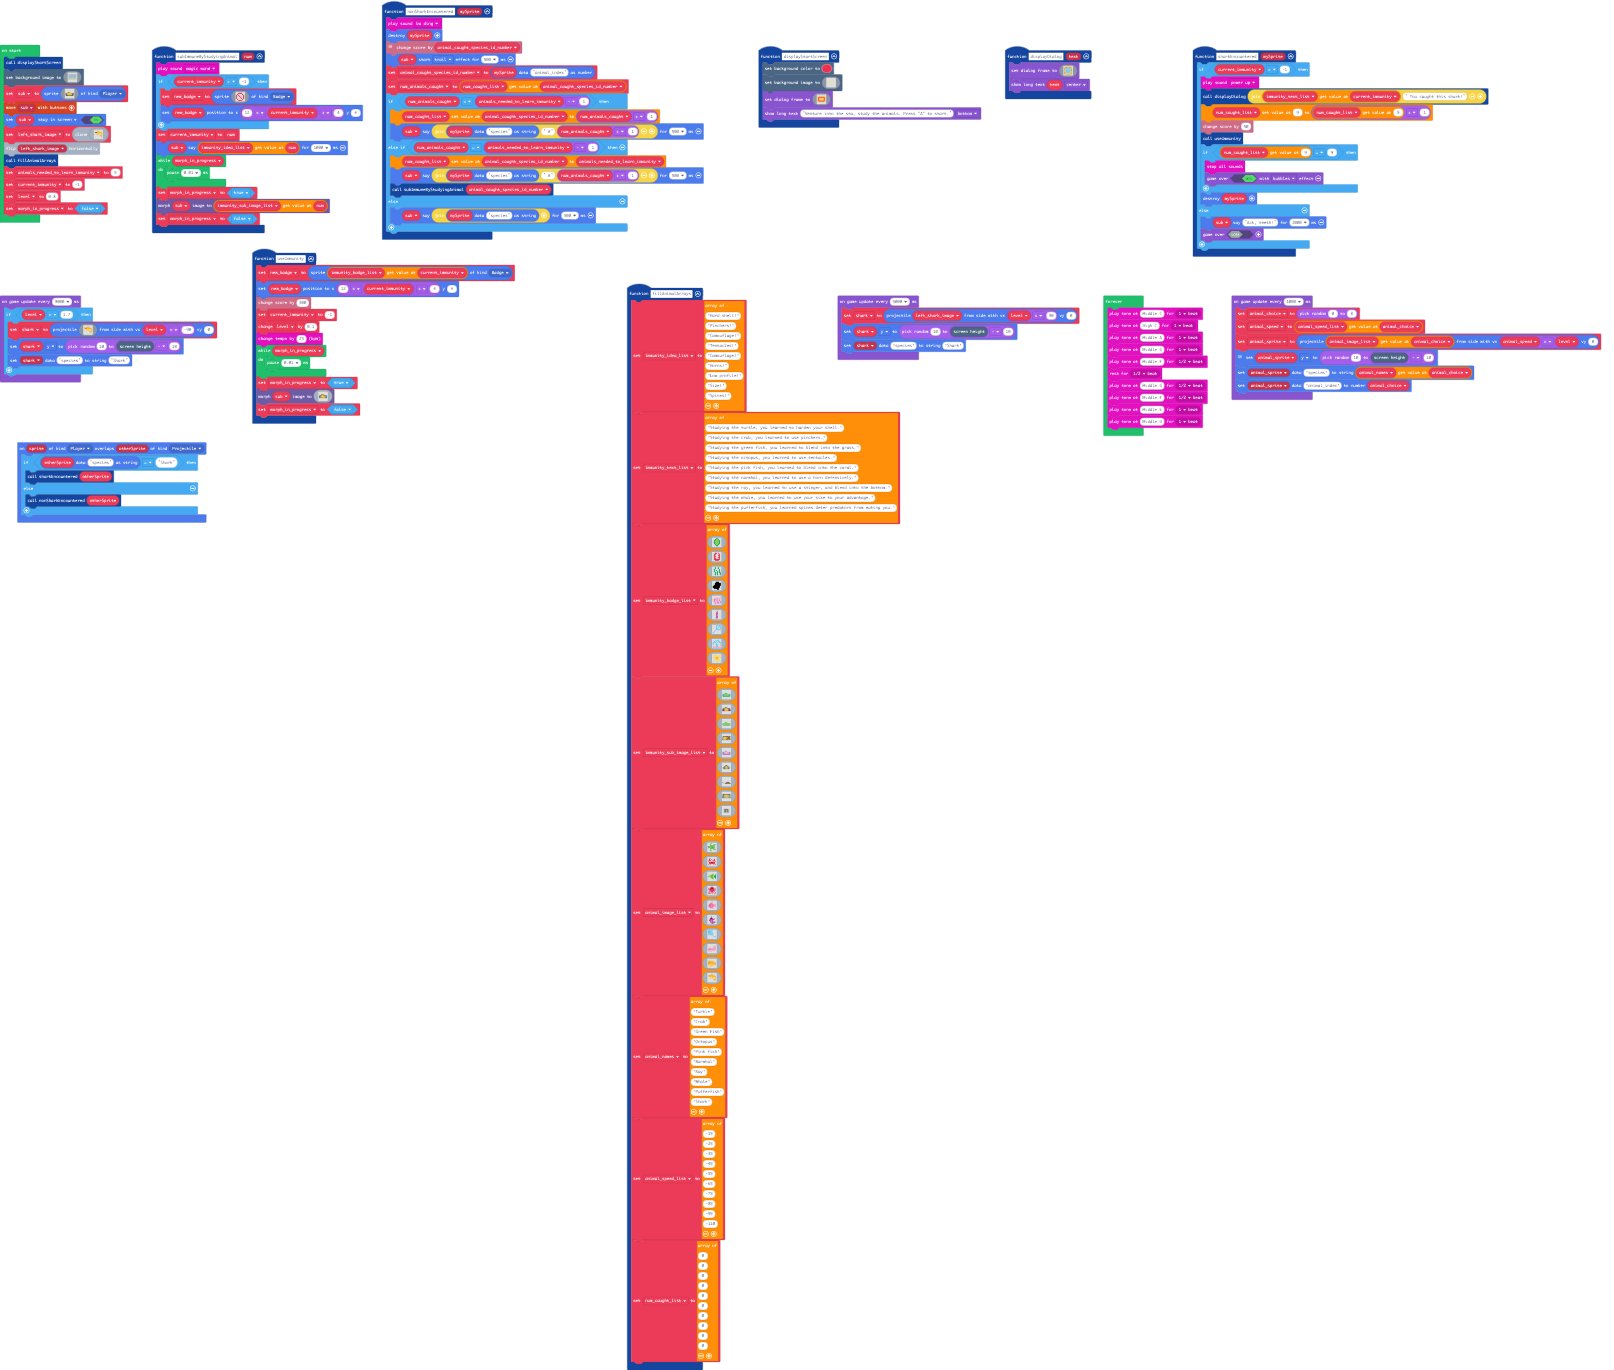
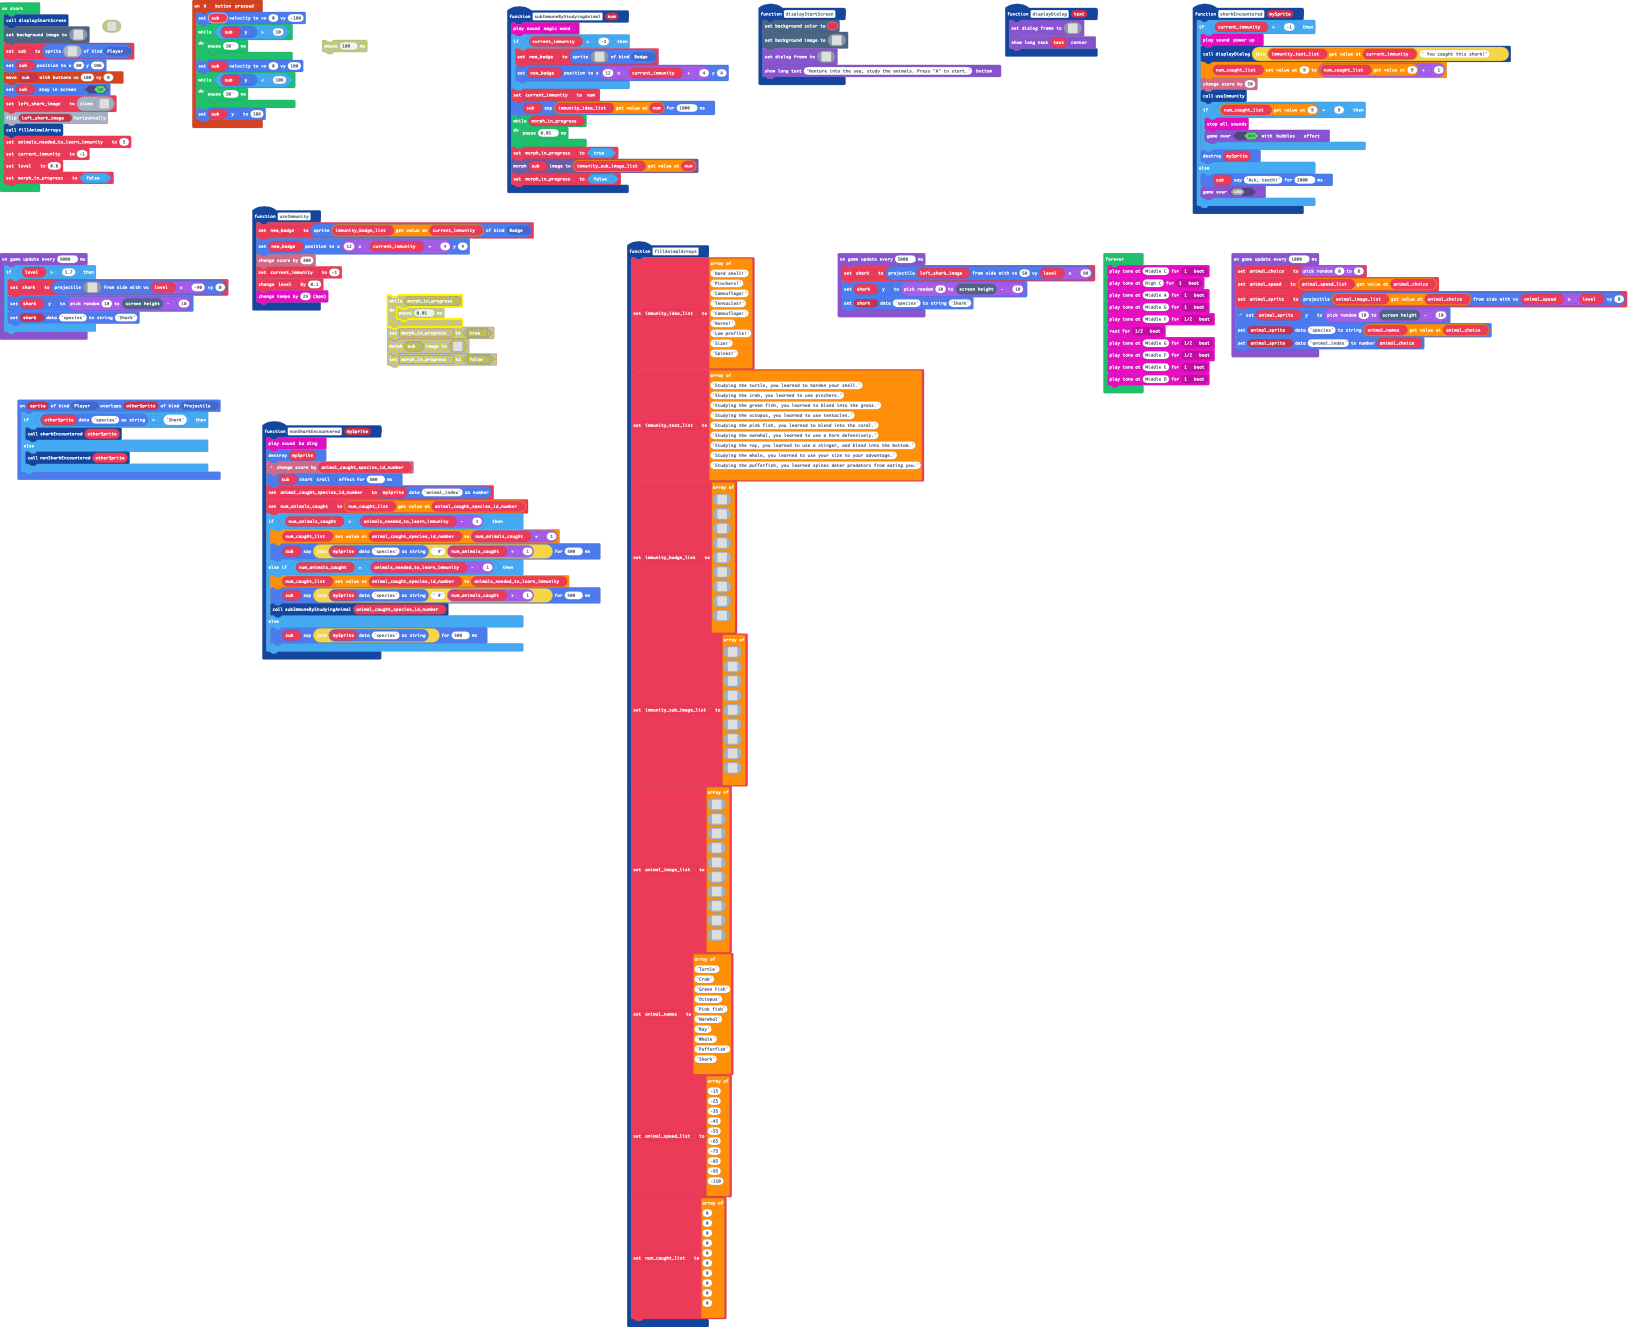
Crab main player, side to side w jumps

Changed region(s): [[0.0, 0.0, 0.9913, 1.0]]

diff --git a/main.ts b/main.ts
@@ -2,6 +2,17 @@ namespace SpriteKind {
     export const Immunity = SpriteKind.create()
     export const Badge = SpriteKind.create()
 }
+controller.A.onEvent(ControllerButtonEvent.Pressed, function () {
+    sub.setVelocity(0, -100)
+    while (sub.y > 10) {
+        pause(10)
+    }
+    sub.setVelocity(0, 100)
+    while (sub.y < 106) {
+        pause(10)
+    }
+    sub.y = 106
+})
 function useImmunity () {
     new_badge = sprites.create(immunity_badge_list[current_immunity], SpriteKind.Badge)
     new_badge.setPosition(12 * current_immunity + 4, 4)
@@ -9,29 +20,6 @@ function useImmunity () {
     current_immunity = -1
     level += 0.1
     music.changeTempoBy(25)
-    while (morph_in_progress) {
-        pause(0.01)
-    }
-    morph_in_progress = true
-    imagemorph.morph(sub, img`
-        . . . . . . . . . . . f f f f f f . . . . . . . . . . . . . . . 
-        . . . . . . . . . . f d e d e e e f . . . . . . . . . . . . . . 
-        . . . . . . . . . . f d d e e e e f . . . . . . . . . . . . . . 
-        . . . . . . . . . . f d e d e e e f . . . . . . . . . . . . . . 
-        . . . . . . . . . . f d d e e e e f . . . . . . . . . . . . . . 
-        . . f f f f f f f f d d e d e e e e f f f f f f f f f f f f . . 
-        . f f c f d e d e e e e e e e e e e e e e e e e d e d f c f f . 
-        f f c b f e d e e d d e e e e e e e e e e d d e e d e f b c f f 
-        f c b b f d e e d c b d e e e e e e e e d c b d e e d f b b c f 
-        f b b b f e e d c b b b d e e e e e e d c b b b d e e f b b b f 
-        f f f f f e e d b b b b d e e e e e e d b b b b d e e f f f f f 
-        f b b b f e e e d b b d e e e e e e e e d b b d e e e f b b b f 
-        f b b b f e d e d d d e d e d e d e d e d d d e d e d f b b b f 
-        f f b b f d e d e d e d e d e d e d e d e d e d e d e f b b f f 
-        . f f b f d d d d d d d d d d d d d d d d d d d d d d f b f f . 
-        . . f f f f f f f f f f f f f f f f f f f f f f f f f f f f . . 
-        `)
-    morph_in_progress = false
 }
 function displayDialog (text: string) {
     game.setDialogFrame(img`
@@ -913,24 +901,25 @@ scene.setBackgroundImage(img`
     7 7 7 7 7 7 7 7 7 7 7 7 7 7 7 7 7 7 7 7 7 7 7 7 7 7 7 7 7 7 7 7 7 7 7 7 7 7 7 7 7 7 7 7 7 7 7 7 7 7 7 7 7 7 7 7 7 7 7 7 7 7 7 7 7 7 7 7 7 7 7 7 7 7 7 7 7 7 7 7 7 7 7 7 7 7 7 7 7 7 7 7 7 7 7 7 7 7 d d d d d d d d d d d d d d d d d d d d d d d d d d d d d d d d d d d d d d d d d d d d d d d d d d d d d d 7 7 7 7 7 7 7 7 
     `)
 sub = sprites.create(img`
-    . . . . . . . . . . . f f f f f f . . . . . . . . . . . . . . . 
-    . . . . . . . . . . f d e d e e e f . . . . . . . . . . . . . . 
-    . . . . . . . . . . f d d e e e e f . . . . . . . . . . . . . . 
-    . . . . . . . . . . f d e d e e e f . . . . . . . . . . . . . . 
-    . . . . . . . . . . f d d e e e e f . . . . . . . . . . . . . . 
-    . . f f f f f f f f d d e d e e e e f f f f f f f f f f f f . . 
-    . f f c f d e d e e e e e e e e e e e e e e e e d e d f c f f . 
-    f f c b f e d e e d d e e e e e e e e e e d d e e d e f b c f f 
-    f c b b f d e e d c b d e e e e e e e e d c b d e e d f b b c f 
-    f b b b f e e d c b b b d e e e e e e d c b b b d e e f b b b f 
-    f f f f f e e d b b b b d e e e e e e d b b b b d e e f f f f f 
-    f b b b f e e e d b b d e e e e e e e e d b b d e e e f b b b f 
-    f b b b f e d e d d d e d e d e d e d e d d d e d e d f b b b f 
-    f f b b f d e d e d e d e d e d e d e d e d e d e d e f b b f f 
-    . f f b f d d d d d d d d d d d d d d d d d d d d d d f b f f . 
-    . . f f f f f f f f f f f f f f f f f f f f f f f f f f f f . . 
+    . . . . . . . . . . . . . . . . 
+    . . . 4 4 . . . . . . . . . . . 
+    . . 4 4 . . . . . . . 4 4 . . . 
+    . . 4 4 . . 4 . . . . . 4 4 . . 
+    . . 4 4 4 4 4 . . 4 . . 4 4 . . 
+    . 4 4 4 4 4 . . . 4 4 4 4 4 . . 
+    . 4 4 . . . . . . . 4 4 4 4 4 . 
+    . 4 . . . . . . . . . . . . 4 . 
+    . 4 4 4 4 4 4 4 4 4 4 4 4 4 4 . 
+    . . 4 4 4 4 f 4 f 4 4 4 4 4 . . 
+    . . . 4 4 4 4 4 4 4 4 4 4 . . . 
+    . . 4 4 4 4 4 4 4 4 4 4 4 4 . . 
+    . 4 4 . 4 . . . . . . 4 . 4 4 . 
+    . 4 . . 4 . . . . . . 4 . . 4 . 
+    . . 4 . . 4 . . . . 4 . . 4 . . 
+    . . . . . . . . . . . . . . . . 
     `, SpriteKind.Player)
-controller.moveSprite(sub)
+sub.setPosition(80, 106)
+controller.moveSprite(sub, 100, 0)
 sub.setFlag(SpriteFlag.StayInScreen, true)
 let left_shark_image = img`
     . . . . . . . . . . . . . . . . 
@@ -957,7 +946,7 @@ current_immunity = -1
 let level = 0.8
 morph_in_progress = false
 game.onUpdateInterval(5000, function () {
-    shark = sprites.createProjectileFromSide(left_shark_image, level * 90, 0)
+    shark = sprites.createProjectileFromSide(left_shark_image, 50, level * 90)
     shark.y = randint(10, scene.screenHeight() - 10)
     sprites.setDataString(shark, "species", "Shark")
 })
